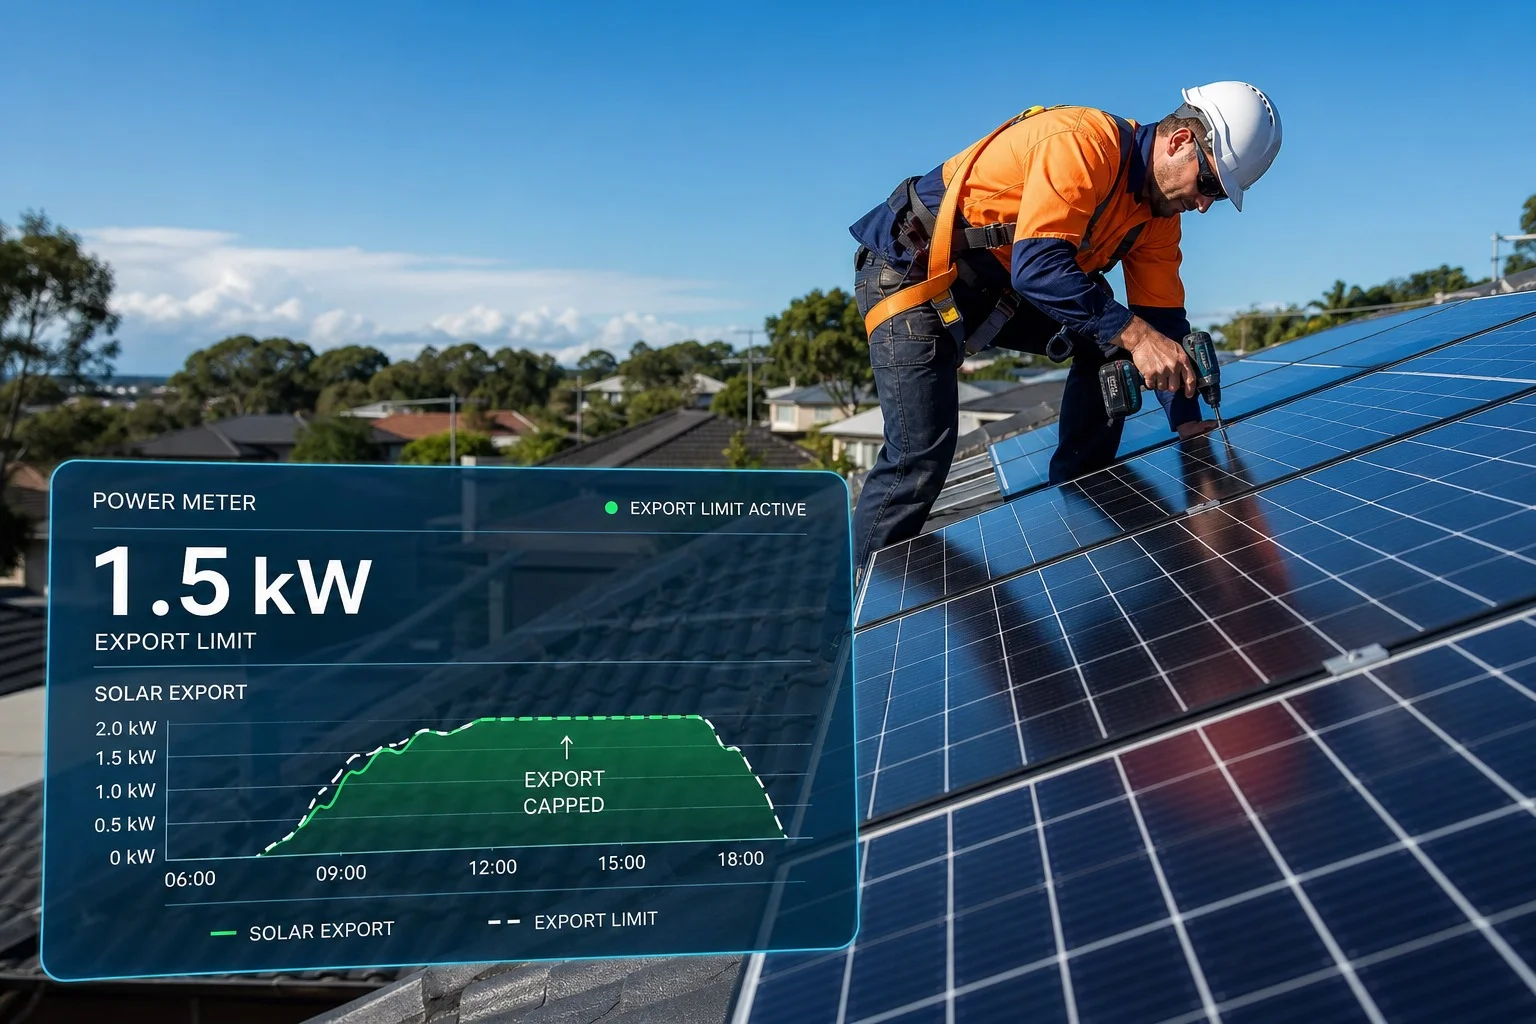
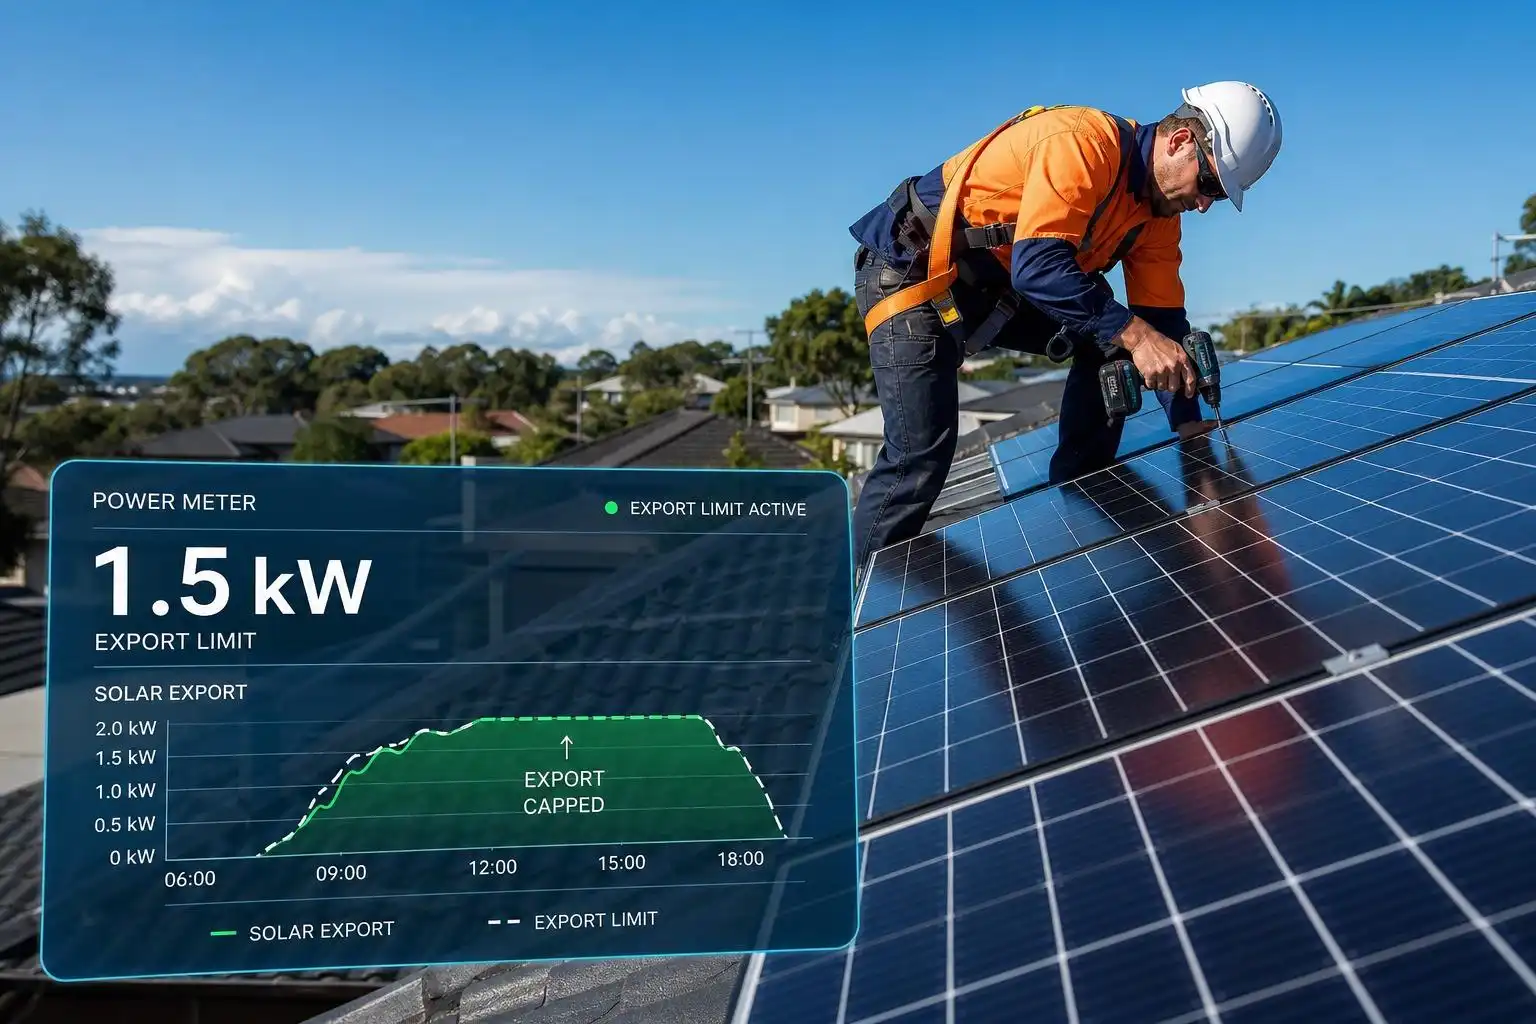
fix: hero images — resolve broken render, flat-lay duplicates, and cross-wired licence heroes
CSIP-AUS (broken render):
- hero-csip-aus-export-clamp.jpg was 357KB (78% over 200KB budget) — recompressed to 198KB

Grid-connection cluster (flat-lay duplicates):
- VIC + QLD + WA were the same 'laptop + sticky note' flat-lay template
- Regenerated as distinct real scenes: VIC=inverter on brick wall, QLD=colorbond tropical roof, WA=pole transformer
- NSW regenerated (had AI-text gibberish on inverter labels) → coastal terracotta rooftop
- SA recompressed 201KB → 187KB
- All 5 now visually distinct scene types, all JPG <200KB / webp <100KB

Licence guides (cross-wired):
- NSW + SA both pointed at QLD's hero; VIC pointed at WA's hero
- Added 3 correct heroes: NSW=switchboard close-up, VIC=underground worksite, SA=terracotta rooftop
- All 5 licence-guide heroes now distinct

All 11 hero refs verified to resolve; build passes (147 pages).

diff --git a/src/content/blog/sa-electrical-contractor-licence-guide-2026.md b/src/content/blog/sa-electrical-contractor-licence-guide-2026.md
@@ -21,7 +21,7 @@ breakdown:
     summary: "Both worker and contractor licences renew yearly through CBS."
   - title: "Add CEC for solar"
     summary: "Separate accreditation for STC-eligible installs."
-heroImage: '/hero-qld-electrical-contractor-licence-2026.jpg'
+heroImage: '/hero-sa-electrical-contractor-licence-guide-2026.jpg'
 tags: ['South Australia', 'electrical contractor', 'CBS', 'OTR', 'compliance', 'solar', 'PGE licence']
 faq:
   - question: "What licence do I need to operate as an electrical contractor in South Australia?"

diff --git a/src/content/blog/vic-electrical-contractor-licence-guide-2026.md b/src/content/blog/vic-electrical-contractor-licence-guide-2026.md
@@ -23,7 +23,7 @@ breakdown:
     hrefLabel: "CES Victoria guide →"
   - title: "Renew + manage solar layers"
     summary: "Annual REC renewal, plus CEC and VEU accreditation for solar."
-heroImage: '/hero-wa-electrical-contractor-licence-guide-2026.jpg'
+heroImage: '/hero-vic-electrical-contractor-licence-guide-2026.jpg'
 tags: ['Victoria', 'electrical contractor', 'REC', 'Energy Safe Victoria', 'ESV', 'compliance', 'solar']
 faq:
   - question: "What licence is required to operate as an electrical contractor in Victoria?"

diff --git a/src/content/blog/nsw-electrical-contractor-licence-guide-2026.md b/src/content/blog/nsw-electrical-contractor-licence-guide-2026.md
@@ -25,7 +25,7 @@ breakdown:
     hrefLabel: "CCEW guide →"
   - title: "Renew"
     summary: "1- or 3-year term; a lapse means you're unlicensed."
-heroImage: '/hero-qld-electrical-contractor-licence-2026.jpg'
+heroImage: '/hero-nsw-electrical-contractor-licence-guide-2026.jpg'
 tags: ['NSW', 'electrical contractor', 'NSW Fair Trading', 'Home Building Act', 'licence', 'compliance', '2026']
 faq:
   - question: "What is the difference between an Electrical Contractor Licence and a Qualified Supervisor Certificate in NSW?"
